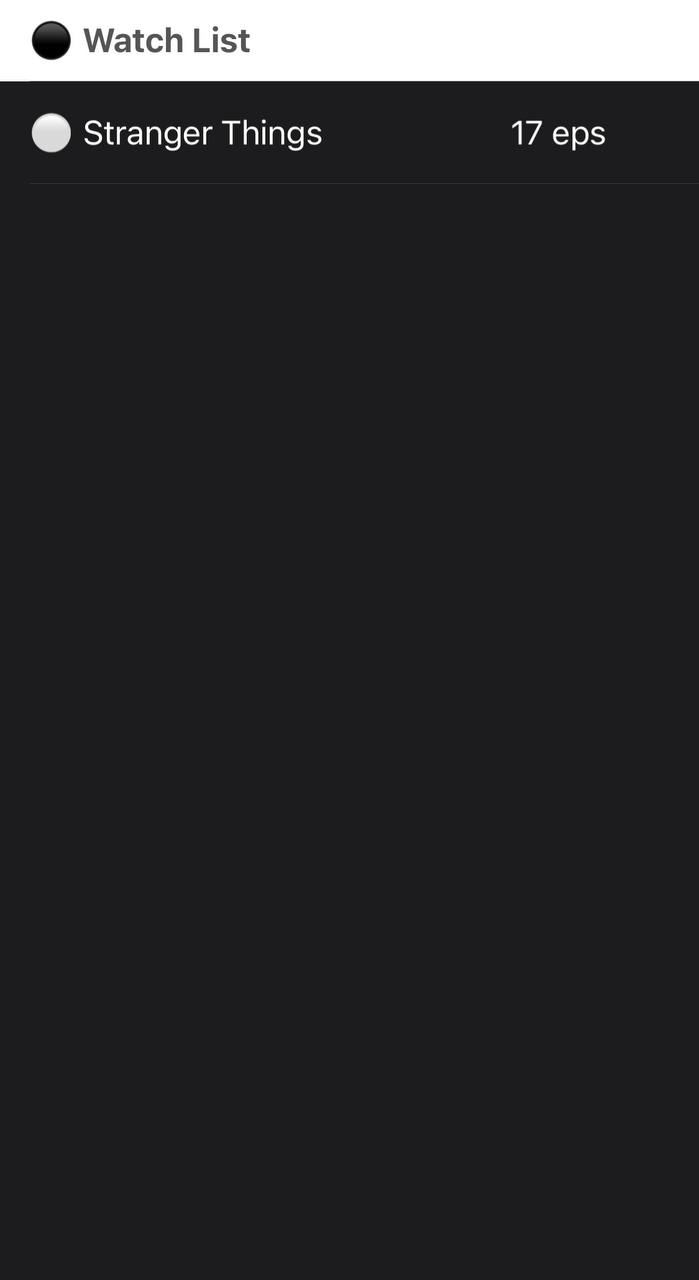
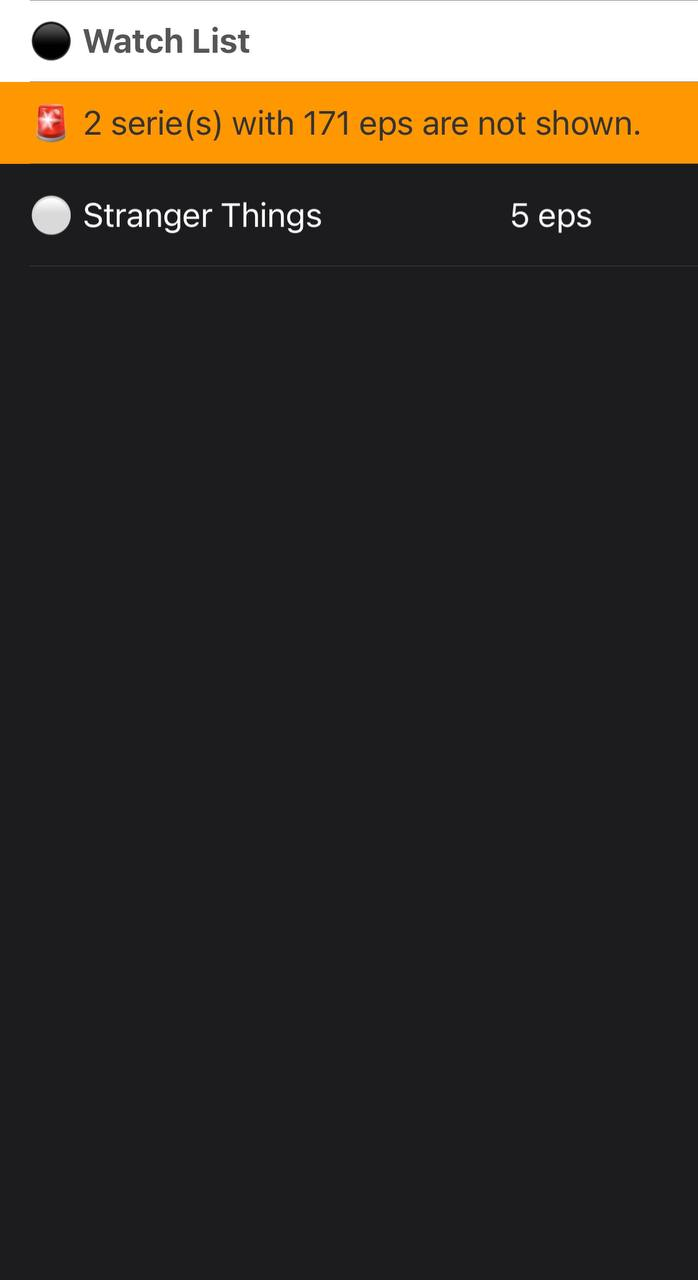
Update WatchQ documentation

Changed region(s): [[0.0, 0.0625, 1.0, 0.1875]]

diff --git a/_tabs/widgets.md b/_tabs/widgets.md
@@ -289,6 +289,13 @@ datat from Scriptable API to calculate how many episodes is left for you to watc
 - **Episode Count**\
 *Amount of episodes that you still need to watch in order to catch up*
 
+#### UI Table Notices
+
+- **Hidden Series Summary**\
+*This notice contains summary on how many series and episodes in total are not being shown in UI table
+and not being displayed in widget. Only series that have unwatched episodes but have **WatchQ visibility turned off**
+in Stop Watcher are not shown.*
+
 #### Widget Configuration
 
 1. When Interacting - **Run Script**
